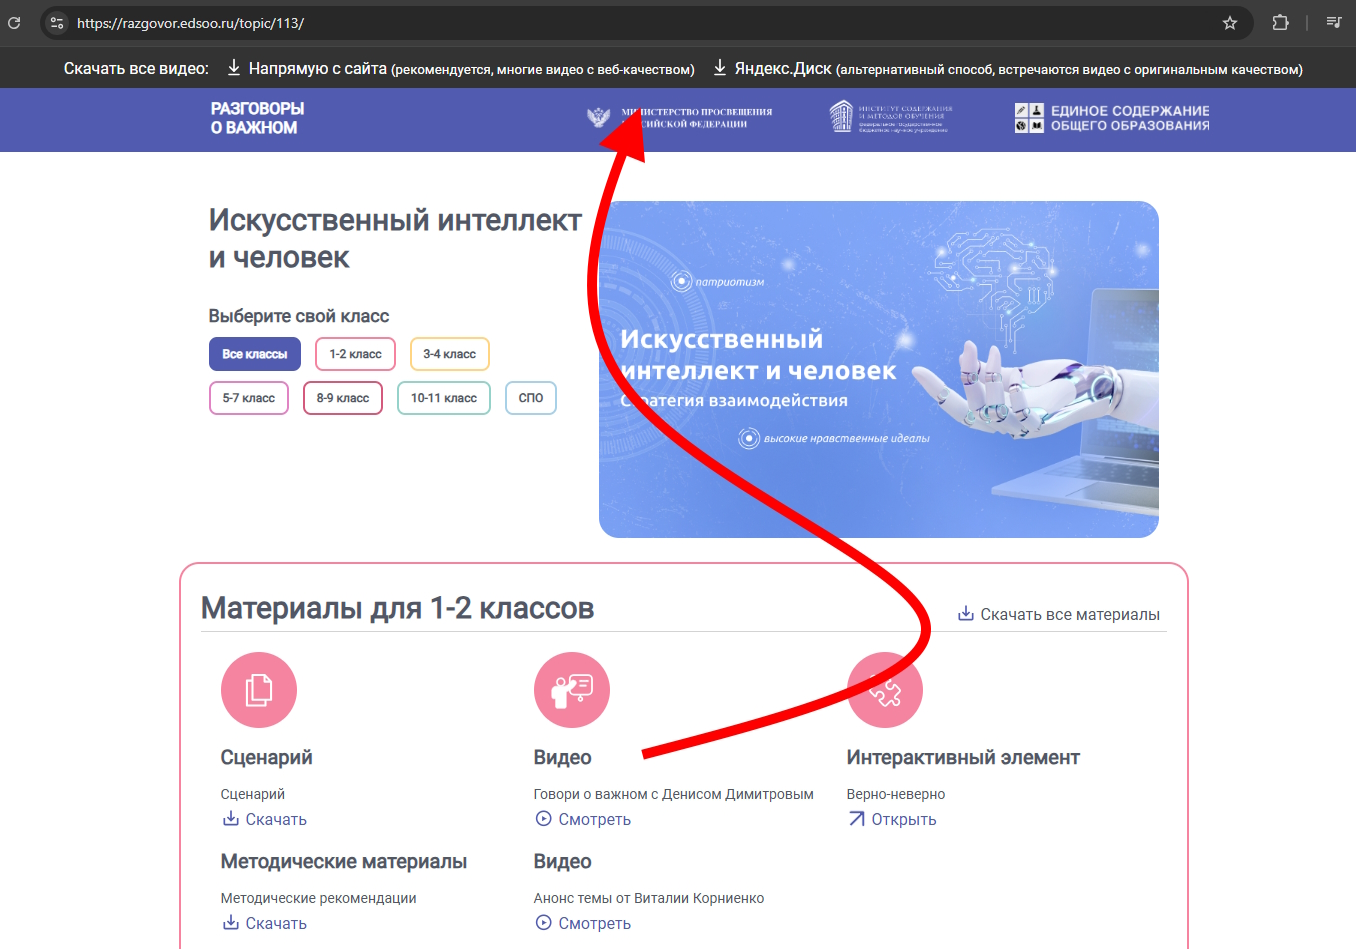
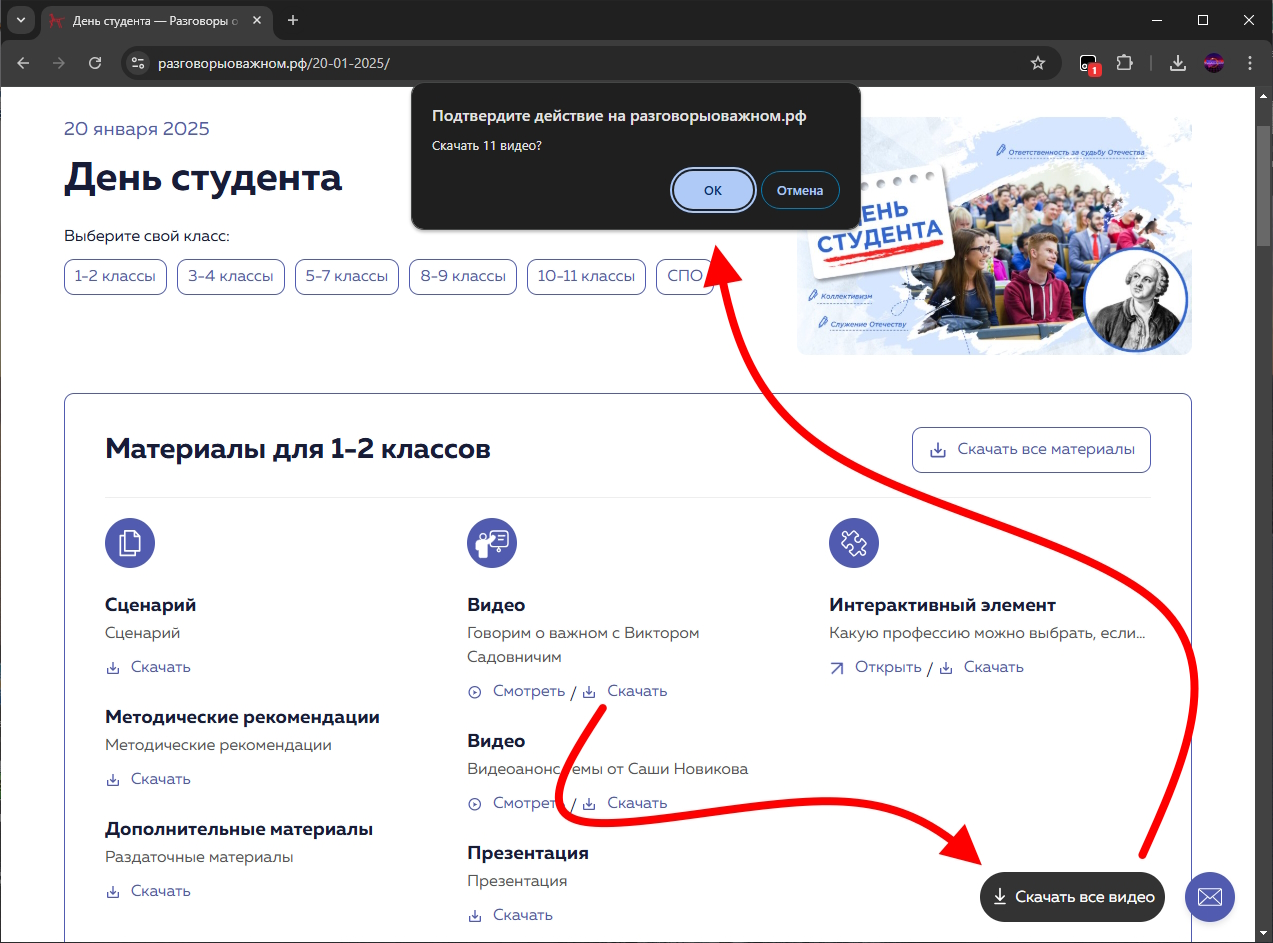
Update script logic for new domain and layout (#1)
* Update script logic for new domain and layout
* Update README and promo image

diff --git a/important-talks-video-downloader.user.js b/important-talks-video-downloader.user.js
@@ -1,17 +1,16 @@
 // ==UserScript==
-// @name         	razgovor.edsoo.ru - Download all videos
-// @name:ru      	Разговоры о важном (https://razgovor.edsoo.ru/) - Скачать все видео
-// @description  	Downloading all videos from the site “Talking About Important”, including video archives from Yandex.Disk.
-// @description:ru  Скачивание видео с сайта "Разговоры о важном" на конкретном топике\дне, включая видео-архивы с Яндекс.Диска.
+// @name         	разговорыоважном.рф - Download all videos
+// @name:ru      	Разговоры о важном (https://разговорыоважном.рф/) - Скачать все видео
+// @description  	Downloading all videos from the site “Talking About Important”.
+// @description:ru  Скачивание видео с сайта "Разговоры о важном" на конкретном топике\дне.
 // @author       	xenongee
-// @version      	2024-12-23
-// @icon         	https://www.google.com/s2/favicons?sz=64&domain=edsoo.ru
+// @version      	2025-01-20
 // @namespace    	http://tampermonkey.net/
 // @homepageURL  	https://github.com/xnngee/important-talks-video-downloader
 // @updateURL    	https://github.com/xnngee/important-talks-video-downloader/raw/refs/heads/main/important-talks-video-downloader.user.js
 // @downloadURL  	https://github.com/xnngee/important-talks-video-downloader/raw/refs/heads/main/important-talks-video-downloader.user.js
-// @match        	https://razgovor.edsoo.ru/topic/*/
-// @match        	https://disk.yandex.ru/d/*
+// @icon            https://www.google.com/s2/favicons?sz=64&domain=xn--80aafadvc9bifbaeqg0p.xn--p1ai
+// @match           https://xn--80aafadvc9bifbaeqg0p.xn--p1ai/*
 // @grant        	window.close
 // ==/UserScript==
 
@@ -25,151 +24,45 @@
 
     function downloadButtons() {
         document.body.insertAdjacentHTML('afterbegin', `
-            <div style="display: flex; justify-content: center; padding: 10px; background-color: #333; gap: 15px;">
-                <span style="color: white; padding-top: 2px;">Скачать все видео:</span>
-                <a id="alldownload" style="color: white; text-decoration: none; display: flex; gap: 5px" href="#">
+            <div style="display: flex; justify-content: center; padding: 10px; background-color: #333; gap: 15px; position: fixed; bottom: 20px; right: 90px; border-radius: 50px; height: 50px; align-items: center;">
+                <a id="download_videos" style="color: white; text-decoration: none; display: flex; gap: 5px; padding-top:1px;" href="#">
                     ${downloadSVG}
-                    <span style="padding-top: 2px;">Напрямую с сайта <small>(рекомендуется, многие видео с веб-качеством)</small></span>
-                </a>
-                <a id="alldownload_yandex" style="color: white; text-decoration: none; display: flex; gap: 5px" href="#">
-                    ${downloadSVG}
-                    <span style="padding-top: 2px;">Яндекс.Диск <small>(альтернативный способ, встречаются видео с оригинальным качеством)</small></span>
+                    <span>Скачать все видео</span>
                 </a>
             </div>
         `);
 
-        document.getElementById("alldownload_yandex").addEventListener("click", (e) => {
-            alert("Сейчас откроются вкладки с Яндекс.Диском, не закрывайте их! Скрипт обработает эти страницы, скачает архивы с видео и закроет их самостоятельно.");
-            document.querySelectorAll(".topic-resource-download a").forEach((e, i) => {
-                window.open(e.href, '_blank' + i)
-            });
-        });
+        document.getElementById("download_videos").addEventListener("click", e => {
+            const materialItems = document.querySelectorAll(`.materials-section .materials-content .materials-column:nth-child(2) .material-item`);
 
-        document.getElementById("alldownload").addEventListener("click", e => {
-            const videoLinks = Array.from(document.querySelectorAll(".topic-resource-group-columns .column a"))
-                .filter(e => e.href.includes("/video/"))
-                .map(e => e.href);
+            const videoLinks = [];
+            const uniqueHref = new Set();
 
-            alert("Сейчас откроются вкладки с видео, не закрывайте их! Скрипт обработает эти страницы, скачает видео и закроет их самостоятельно.");
-
-            const downloadedFiles = new Set();
-            videoLinks.forEach((link, index) => {
-                const newWindow = window.open(link, '_blank' + index);
-                newWindow.onload = () => {
-                    const videoPlayer = newWindow.document.getElementById('player');
-                    if (videoPlayer) {
-                        const source = videoPlayer.querySelector('source');
-                        if (source) {
-                            // Получаем имя файла из URL
-                            const fileName = source.src.split('/').pop();
-                            // Скачать ресурс по ссылке из src
-                            fetch(source.src)
-                                .then(response => response.blob())
-                                .then(blob => {
-                                    // Проверяем, скачивался ли уже файл с таким именем
-                                    if (downloadedFiles.has(fileName)) {
-                                        console.warn(`Файл ${fileName} уже скачан. Пропускаем.`);
-                                        newWindow.close();
-                                        return;
-                                    }
-                                    // Создаем ссылку для скачивания
-                                    const url = window.URL.createObjectURL(blob);
-                                    //const a = newWindow.document.body.insertAdjacentHTML('afterbegin', `
-                                    //<div style="display: flex; justify-content: center; padding: 10px; background-color: #333; gap: 15px; position: absolute; top: 0; left: 0; width: 100%;">
-                                    //    <a style="color: white; text-decoration: none; display:" href=${url} download=${fileName}>
-                                    //        ${downloadSVG}
-                                    //        <span style="color: white; padding-top: 2px; font-family">Скачать видео</span>
-                                    //    </a>
-                                    //</div>`);
-                                    const a = newWindow.document.createElement('a');
-                                    a.href = url;
-                                    a.download = fileName;
-                                    a.innerHTML = "Скачать видео";
-                                    newWindow.document.body.appendChild(a);
-                                    a.click();
-                                    console.log('Скачиваем видео:', fileName);
-                                    window.URL.revokeObjectURL(url);
-                                    // Добавляем имя файла в список скачанных
-                                    downloadedFiles.add(fileName);
-                                    // Закрыть вкладку
-                                    setTimeout(() => {
-                                        newWindow.close();
-                                    }, 1000);
-                                })
-                                .catch(error => {
-                                    console.error('Ошибка при скачивании видео:', error);
-                                    newWindow.close();
-                                });
-                        } else {
-                            console.error("Тег <source> не найден");
-                            newWindow.close();
+            materialItems.forEach(item => {
+                const strongElement = item.querySelector('strong');
+                if (strongElement && strongElement.textContent.trim() === 'Видео') {
+                    const downloadLinks = item.querySelectorAll('a[download]');
+                    downloadLinks.forEach(link => {
+                        const href = link.getAttribute('href');
+                        if (!uniqueHref.has(href)) {
+                            uniqueHref.add(href);
+                            videoLinks.push(link);
                         }
-                    } else {
-                        console.error("Тег <video> с id 'player' не найден");
-                        newWindow.close();
-                    }
+                    });
                 }
             });
+
+            if (videoLinks.length > 0) {
+                if (confirm(`Скачать ${videoLinks.length} видео?`)) {
+                    videoLinks.forEach(link => {
+                        link.click();
+                    });
+                }
+            } else {
+                alert('Видео для скачивания не найдены.');
+            }
         });
     }
 
-    function downloadButtonYandexDisk() {
-        // Ручной способ
-        document.body.insertAdjacentHTML( 'afterbegin', `
-            <div id="alldownload" style="display: flex; justify-content: center; padding: 10px; background-color: #333; gap: 15px;">
-                <a id="alldownload" style="color: white; text-decoration: none; display: flex; gap: 5px" href="#">
-                    ${downloadSVG}
-                    <span style="padding-top: 2px;">Нажмите сюда, если не началось автоматическое скачивание архива с видео</small></span>
-                </a>
-            </div>
-        `);
-        document.getElementById("alldownload").addEventListener("click", (e) => {
-            document.querySelectorAll(".listing__items .listing-item").forEach(e => {
-                const titleSpan = e.querySelector(".listing-item__info .listing-item__title span");
-                if (titleSpan && titleSpan.innerHTML.toLowerCase().includes("3 видео")) {
-                    e.click();
-                }
-            });
-            document.querySelector(".resources-action-bar__side-right .download-button").click();
-        })
-    }
-
-    function autoDownloadYandexDisk() {
-        // Автоматический способ
-        let attempts = 0;
-        const maxAttempts = 3; // Максимальное количество попыток
-        const interval = 500; // Интервал между попытками
-
-        const findAndDownload = setInterval(() => {
-            attempts++;
-            const items = document.querySelectorAll(".listing__items .listing-item");
-            items.forEach(item => {
-                const titleSpan = item.querySelector(".listing-item__info .listing-item__title span");
-                if (titleSpan && (titleSpan.innerHTML.trim().toLowerCase() === "3 видео")) {
-                    item.click();
-                    setTimeout(()=> {
-                        document.querySelector(".resources-action-bar__side-right .download-button").click();
-                    }, 500);
-                    setTimeout(()=> {
-                        window.close();
-                    }, 5000);
-                    clearInterval(findAndDownload);
-                }
-            });
-
-            if (attempts >= maxAttempts) {
-                clearInterval(findAndDownload);
-                console.error(">>>> Не удалось найти папку '3 видео' после нескольких попыток.");
-            }
-        }, interval);
-    }
-
-    if (currentURL.startsWith('https://razgovor.edsoo.ru/topic/')) {
-        downloadButtons();
-    }
-
-    if (currentURL.startsWith('https://disk.yandex.ru/d/')) {
-        downloadButtonYandexDisk();
-        autoDownloadYandexDisk();
-    }
+    downloadButtons();
 })();

diff --git a/README.md b/README.md
@@ -1,23 +1,12 @@
-## Разговоры о важном | Скачать все видео
-Скрипт для расширения браузера Tampermonkey. Добавляет на сайт "Разговоры о важном" (https://razgovor.edsoo.ru/) панель с кнопками для скачивания видео из выбранного топика (тема дня).
+## Tampermonkey Userscript Разговоры о важном -- Скачать все видео
+Скрипт для расширения браузера Tampermonkey. Добавляет на сайт "Разговоры о важном" (https://разговорыоважном.рф/) кнопку для скачивания видео из выбранного топика (темы дня).
 
-![Promo Img](promo.jpg)
+![Скриншот страницы с кнопкой](promo.jpg)
 
 ## Описание:
-
-На панели распологаются 2 кнопки:
-- **Скачать напрямую с сайта** \
-Скрипт открывает все ссылки с видео по всем блокам материалов (от 1 до 11 классов и СПО), создаёт blob-объекты для отслеживания уже скачанных видео, генерирует ссылку для скачивания, скачивает видео и закрывает вкладку.
-- **Скачать с Яндекс.Диска** (альтернативный способ) \
-Скрипт открывает несколько вкладок с Яндекс.Диском по всем блокам материалов (от 1 до 11 классов и СПО), находит элемент с названием "3 видео", кликает по нему, скачивает архив и закрывает вкладку.
-
-**Важно:** После нажатия кнопок, пожалуйста, **не закрывайте вкладки вручную**. Дождитесь завершения работы скрипта, он закроет их автоматически.
+На странице внизу справа появится кнопка **Скачать все видео** \
+После ее нажатия, скрипт попросит вас подтвердить скачивание через alert окно браузера. Если вы подтвердите скачивание, скрипт найдёт все элементы с классом `material-item`, расположенные в секции `.materials-section .materials-content .materials-column:nth-child(2)`, и проверит наличие в них тэга <strong>Видео</strong>. Если такой элемент будет найден, скрипт соберёт все уникальные ссылки с атрибутом `download` из `material-item` и начнёт скачивать видео из всех секций.
 
 ## Установка
 1. Установите расширение [Tampermonkey](https://www.tampermonkey.net/) на свой браузера
 2. Нажмите по ссылке для установки скрипта: [Установить скрипт](https://github.com/xnngee/important-talks-video-downloader/raw/refs/heads/main/important-talks-video-downloader.user.js)
-
-### Дополнительная информация:
-
-- Скрипт работает только на страницах топиков сайта "Разговоры о важном" (https://razgovor.edsoo.ru/topic/*/) и на страницах Яндекс.Диска (https://disk.yandex.ru/d/*/), открытых скриптом.
-- При скачивании с Яндекс.Диска реализовано два способа: автоматический и ручной (вверху будет ссылка на скачивание архива с видео. Этот способ существует на случай, если автоматический не сработает).
